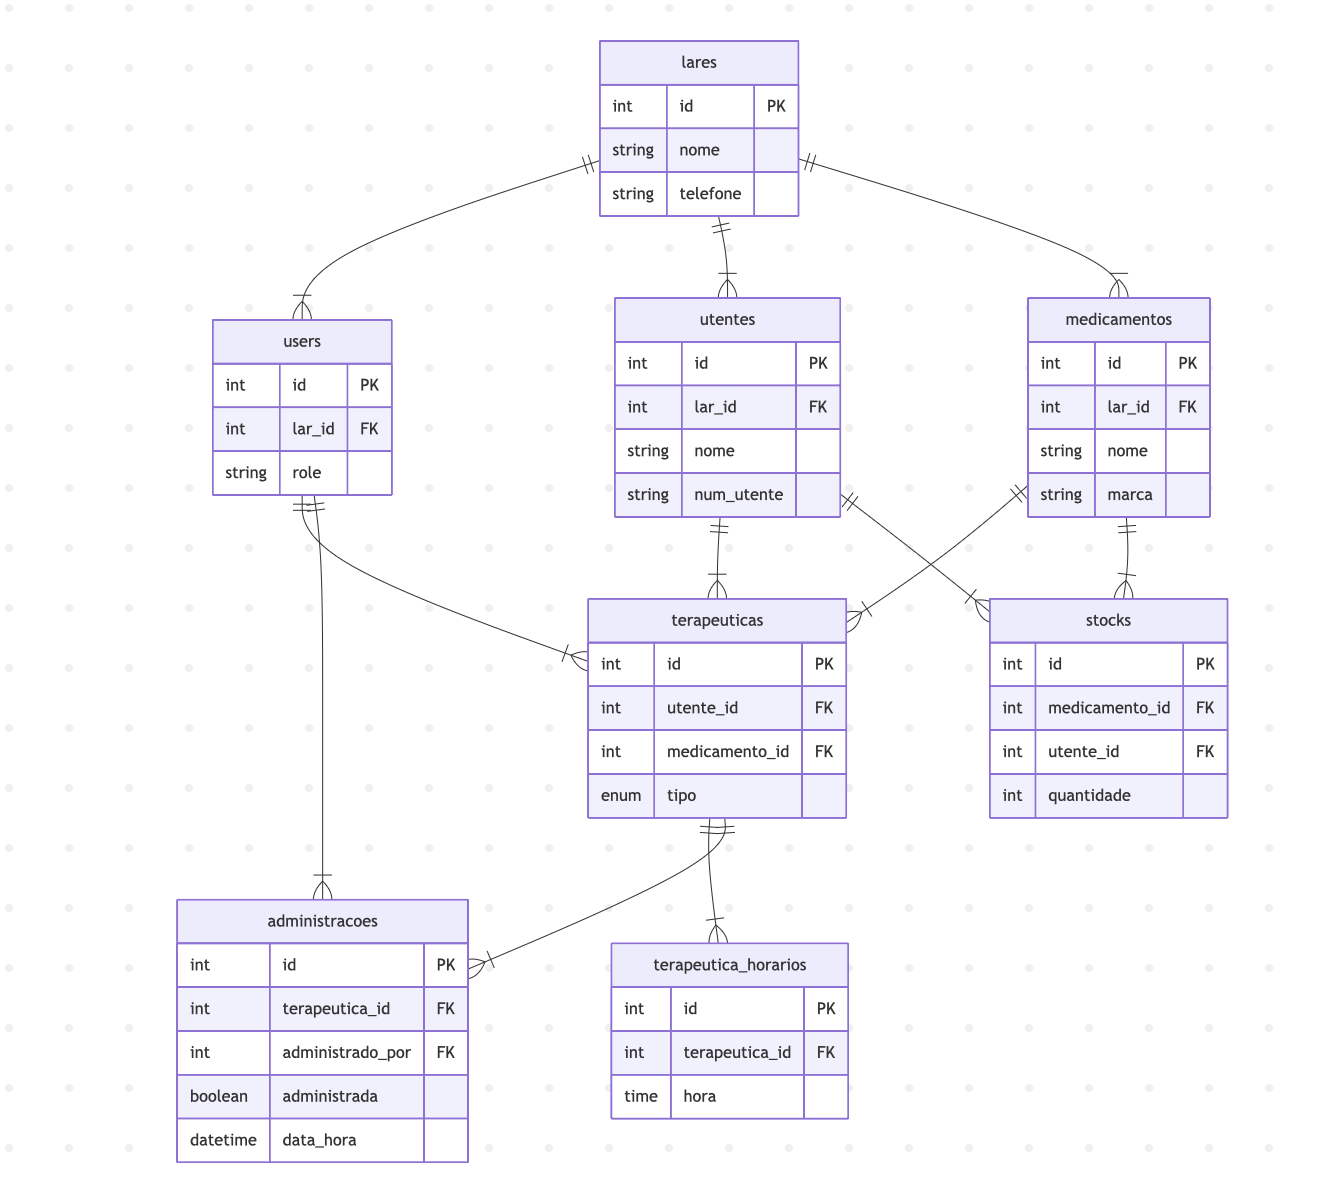
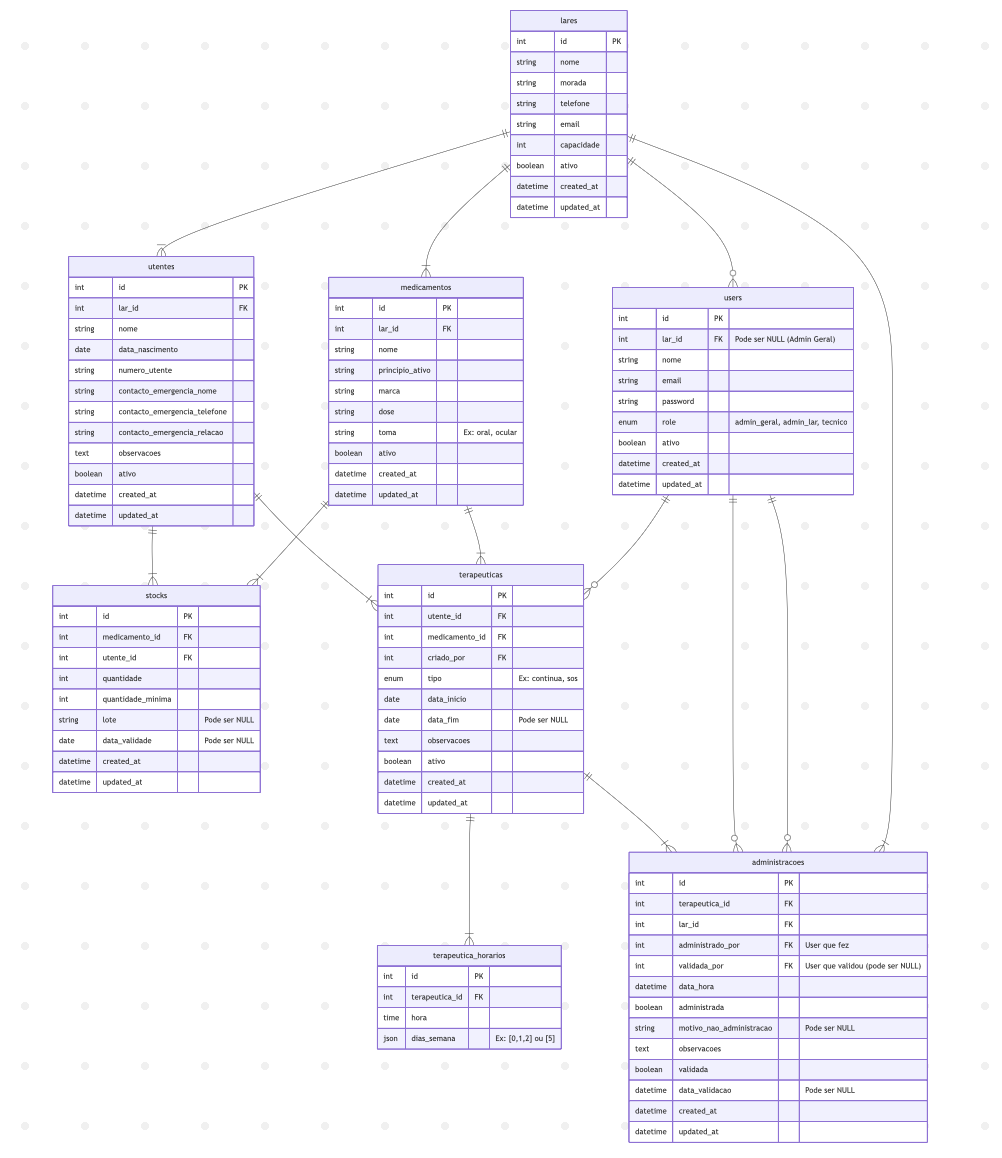
add minimo and validade fields to medicamentos, update diagrams, right-align table actions

diff --git a/js/pages/medicamentos.js b/js/pages/medicamentos.js
@@ -134,6 +134,14 @@ function showCreateMedicamentoModal() {
                 <label>Lar *</label>
                 <select id="medLar" required>${laresOptions}</select>
             </div>
+            <div class="form-group">
+                <label>Mínimo</label>
+                <input type="number" id="medMinimo" min="0" value="0">
+            </div>
+            <div class="form-group">
+                <label>Validade</label>
+                <input type="date" id="medValidade">
+            </div>
         </form>
     `;
 
@@ -152,7 +160,9 @@ async function createMedicamento() {
         marca: document.getElementById('medMarca').value,
         dose: document.getElementById('medDose').value,
         toma: document.getElementById('medToma').value,
-        lar_id: parseInt(document.getElementById('medLar').value)
+        lar_id: parseInt(document.getElementById('medLar').value),
+        minimo: parseInt(document.getElementById('medMinimo').value || '0'),
+        validade: document.getElementById('medValidade').value || null
     };
 
     try {
@@ -170,7 +180,7 @@ async function createMedicamento() {
                 medicamento_id: medicamentoId,
                 utente_id: utente.id,
                 quantidade: 0,
-                quantidade_minima: 0
+                quantidade_minima: medicamentoData.minimo
             });
         }
         
@@ -183,6 +193,9 @@ async function createMedicamento() {
 }
 
 function showEditMedicamentoModal(med) {
+    const medMinimo = (med.minimo !== undefined && med.minimo !== null) ? med.minimo : 0;
+    const medValidade = (med.validade !== undefined && med.validade !== null) ? med.validade : '';
+
     const content = `
         <form>
             <input type="hidden" id="medId" value="${med.id}">
@@ -216,6 +229,14 @@ function showEditMedicamentoModal(med) {
                     <option value="nasal" ${med.toma === 'nasal' ? 'selected' : ''}>Nasal</option>
                 </select>
             </div>
+            <div class="form-group">
+                <label>Mínimo</label>
+                <input type="number" id="medMinimo" min="0" value="${medMinimo}">
+            </div>
+            <div class="form-group">
+                <label>Validade</label>
+                <input type="date" id="medValidade" value="${medValidade}">
+            </div>
         </form>
     `;
 
@@ -234,7 +255,9 @@ async function updateMedicamento() {
         principio_ativo: document.getElementById('medPrincipioAtivo').value,
         marca: document.getElementById('medMarca').value,
         dose: document.getElementById('medDose').value,
-        toma: document.getElementById('medToma').value
+        toma: document.getElementById('medToma').value,
+        minimo: parseInt(document.getElementById('medMinimo').value || '0'),
+        validade: document.getElementById('medValidade').value || null
     };
 
     try {

diff --git a/css/style.css b/css/style.css
@@ -529,11 +529,61 @@ th {
     letter-spacing: 0.5px;
 }
 
+th:last-child {
+    text-align: right;
+}
+
 td {
     padding: 16px;
     border-top: 1px solid var(--gray-200);
     font-size: 14px;
     color: var(--gray-700);
+}
+
+td:last-child {
+    text-align: right;
+}
+
+.action-buttons {
+    display: flex;
+    align-items: center;
+    justify-content: flex-end;
+    gap: 8px;
+}
+
+.btn-icon {
+    width: 34px;
+    height: 34px;
+    padding: 0;
+    border: none;
+    border-radius: 8px;
+    background: transparent;
+    color: var(--gray-600);
+    cursor: pointer;
+    display: inline-flex;
+    align-items: center;
+    justify-content: center;
+    transition: all 0.2s ease;
+}
+
+.btn-icon:hover {
+    background: var(--gray-100);
+    color: var(--gray-800);
+}
+
+.btn-icon svg {
+    width: 18px;
+    height: 18px;
+    stroke-width: 2;
+}
+
+.btn-icon-danger {
+    color: var(--danger);
+}
+
+.btn-icon-danger:hover {
+    background: rgba(239, 68, 68, 0.1);
+    color: var(--danger);
 }
 
 tr:hover {

diff --git a/api/medicamentos.php b/api/medicamentos.php
@@ -74,9 +74,27 @@ else if ($method === 'POST') {
     
     $data = json_decode(file_get_contents("php://input"));
 
+    $minimo = isset($data->minimo) ? (int)$data->minimo : 0;
+    $validade = (isset($data->validade) && $data->validade !== '') ? $data->validade : null;
+
+    if ($minimo < 0) {
+        http_response_code(400);
+        echo json_encode(['success' => false, 'message' => 'O mínimo tem de ser um número igual ou superior a 0']);
+        exit();
+    }
+
+    if ($validade !== null) {
+        $dt = DateTime::createFromFormat('Y-m-d', $validade);
+        if (!$dt || $dt->format('Y-m-d') !== $validade) {
+            http_response_code(400);
+            echo json_encode(['success' => false, 'message' => 'Validade inválida']);
+            exit();
+        }
+    }
+
     try {
-        $query = "INSERT INTO medicamentos (nome, principio_ativo, marca, dose, toma, lar_id) 
-                  VALUES (:nome, :principio_ativo, :marca, :dose, :toma, :lar_id)";
+        $query = "INSERT INTO medicamentos (nome, principio_ativo, marca, dose, toma, minimo, validade, lar_id) 
+                  VALUES (:nome, :principio_ativo, :marca, :dose, :toma, :minimo, :validade, :lar_id)";
         
         $stmt = $db->prepare($query);
         $stmt->bindParam(':nome', $data->nome);
@@ -84,6 +102,8 @@ else if ($method === 'POST') {
         $stmt->bindParam(':marca', $data->marca);
         $stmt->bindParam(':dose', $data->dose);
         $stmt->bindParam(':toma', $data->toma);
+        $stmt->bindValue(':minimo', $minimo, PDO::PARAM_INT);
+        $stmt->bindValue(':validade', $validade, $validade === null ? PDO::PARAM_NULL : PDO::PARAM_STR);
         $stmt->bindParam(':lar_id', $data->lar_id);
 
         if ($stmt->execute()) {
@@ -116,9 +136,27 @@ else if ($method === 'PUT') {
     
     $data = json_decode(file_get_contents("php://input"));
 
+    $minimo = isset($data->minimo) ? (int)$data->minimo : 0;
+    $validade = (isset($data->validade) && $data->validade !== '') ? $data->validade : null;
+
+    if ($minimo < 0) {
+        http_response_code(400);
+        echo json_encode(['success' => false, 'message' => 'O mínimo tem de ser um número igual ou superior a 0']);
+        exit();
+    }
+
+    if ($validade !== null) {
+        $dt = DateTime::createFromFormat('Y-m-d', $validade);
+        if (!$dt || $dt->format('Y-m-d') !== $validade) {
+            http_response_code(400);
+            echo json_encode(['success' => false, 'message' => 'Validade inválida']);
+            exit();
+        }
+    }
+
     try {
         $query = "UPDATE medicamentos SET nome = :nome, principio_ativo = :principio_ativo, 
-                  marca = :marca, dose = :dose, toma = :toma WHERE id = :id";
+                  marca = :marca, dose = :dose, toma = :toma, minimo = :minimo, validade = :validade WHERE id = :id";
         
         $stmt = $db->prepare($query);
         $stmt->bindParam(':nome', $data->nome);
@@ -126,6 +164,8 @@ else if ($method === 'PUT') {
         $stmt->bindParam(':marca', $data->marca);
         $stmt->bindParam(':dose', $data->dose);
         $stmt->bindParam(':toma', $data->toma);
+        $stmt->bindValue(':minimo', $minimo, PDO::PARAM_INT);
+        $stmt->bindValue(':validade', $validade, $validade === null ? PDO::PARAM_NULL : PDO::PARAM_STR);
         $stmt->bindParam(':id', $data->id);
 
         if ($stmt->execute()) {

diff --git a/api/import_csv.php b/api/import_csv.php
@@ -52,8 +52,8 @@ if ($_SERVER['REQUEST_METHOD'] === 'POST' && isset($_FILES['csv_file'])) {
                 continue;
             }
 
-            $query = "INSERT INTO medicamentos (nome, principio_ativo, marca, dose, toma, lar_id) 
-                      VALUES (:nome, :principio_ativo, :marca, :dose, :toma, :lar_id)";
+            $query = "INSERT INTO medicamentos (nome, principio_ativo, marca, dose, toma, minimo, validade, lar_id) 
+                      VALUES (:nome, :principio_ativo, :marca, :dose, :toma, :minimo, :validade, :lar_id)";
             
             $stmt = $db->prepare($query);
             $stmt->bindParam(':nome', $nome);
@@ -61,6 +61,8 @@ if ($_SERVER['REQUEST_METHOD'] === 'POST' && isset($_FILES['csv_file'])) {
             $stmt->bindParam(':marca', $marca);
             $stmt->bindParam(':dose', $dose);
             $stmt->bindParam(':toma', $toma);
+            $stmt->bindValue(':minimo', 0, PDO::PARAM_INT);
+            $stmt->bindValue(':validade', null, PDO::PARAM_NULL);
             $stmt->bindParam(':lar_id', $lar_id);
 
             if ($stmt->execute()) {
